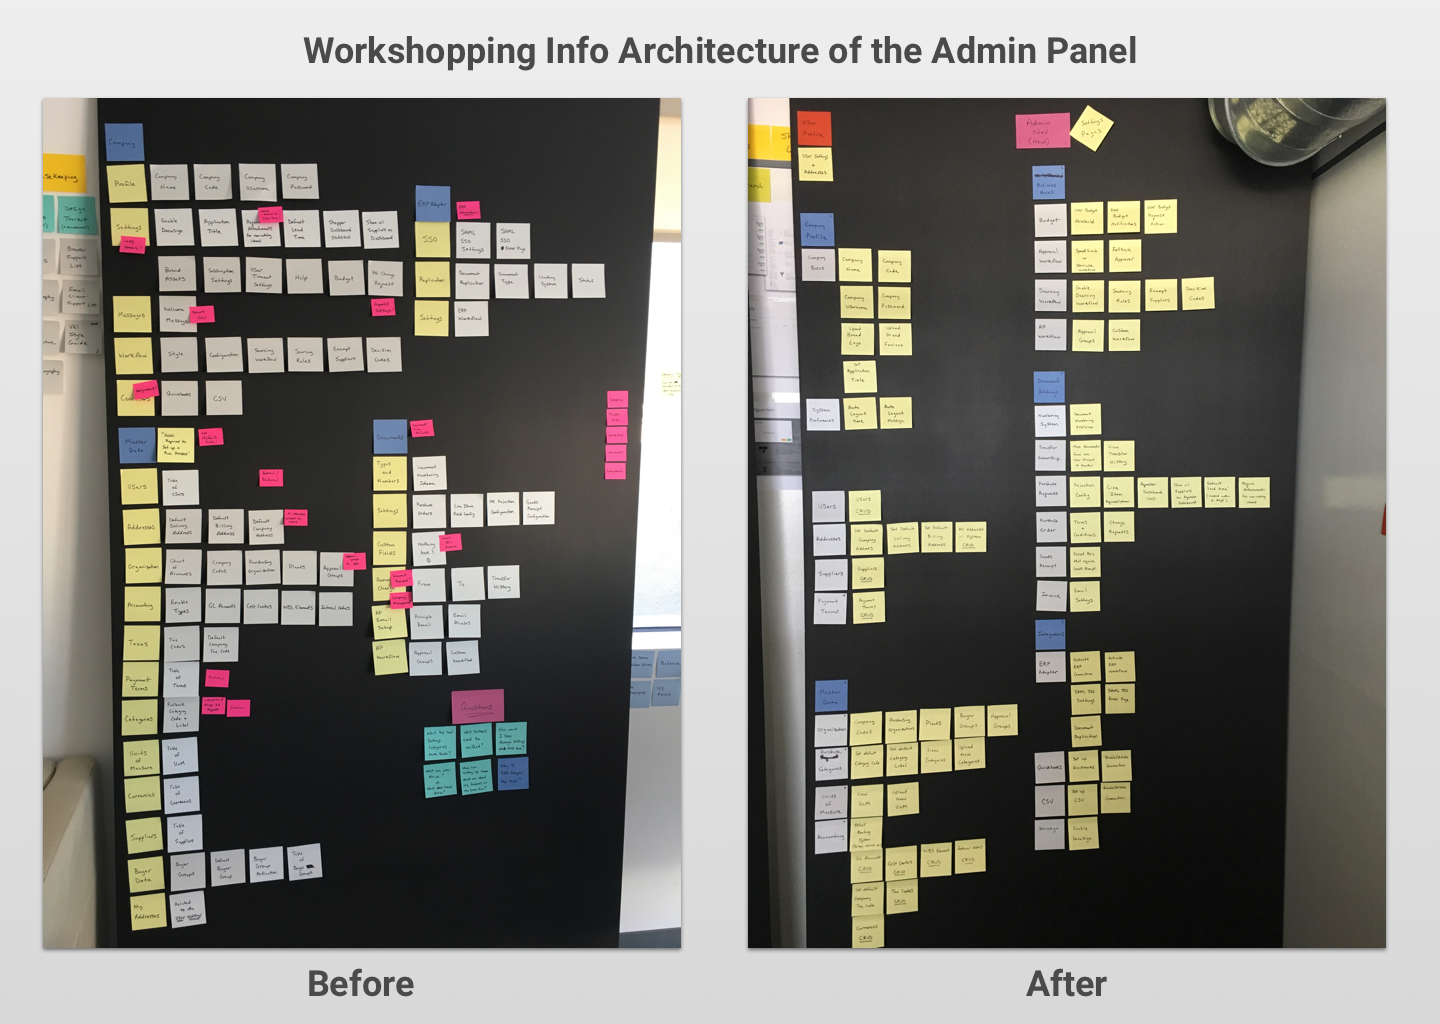
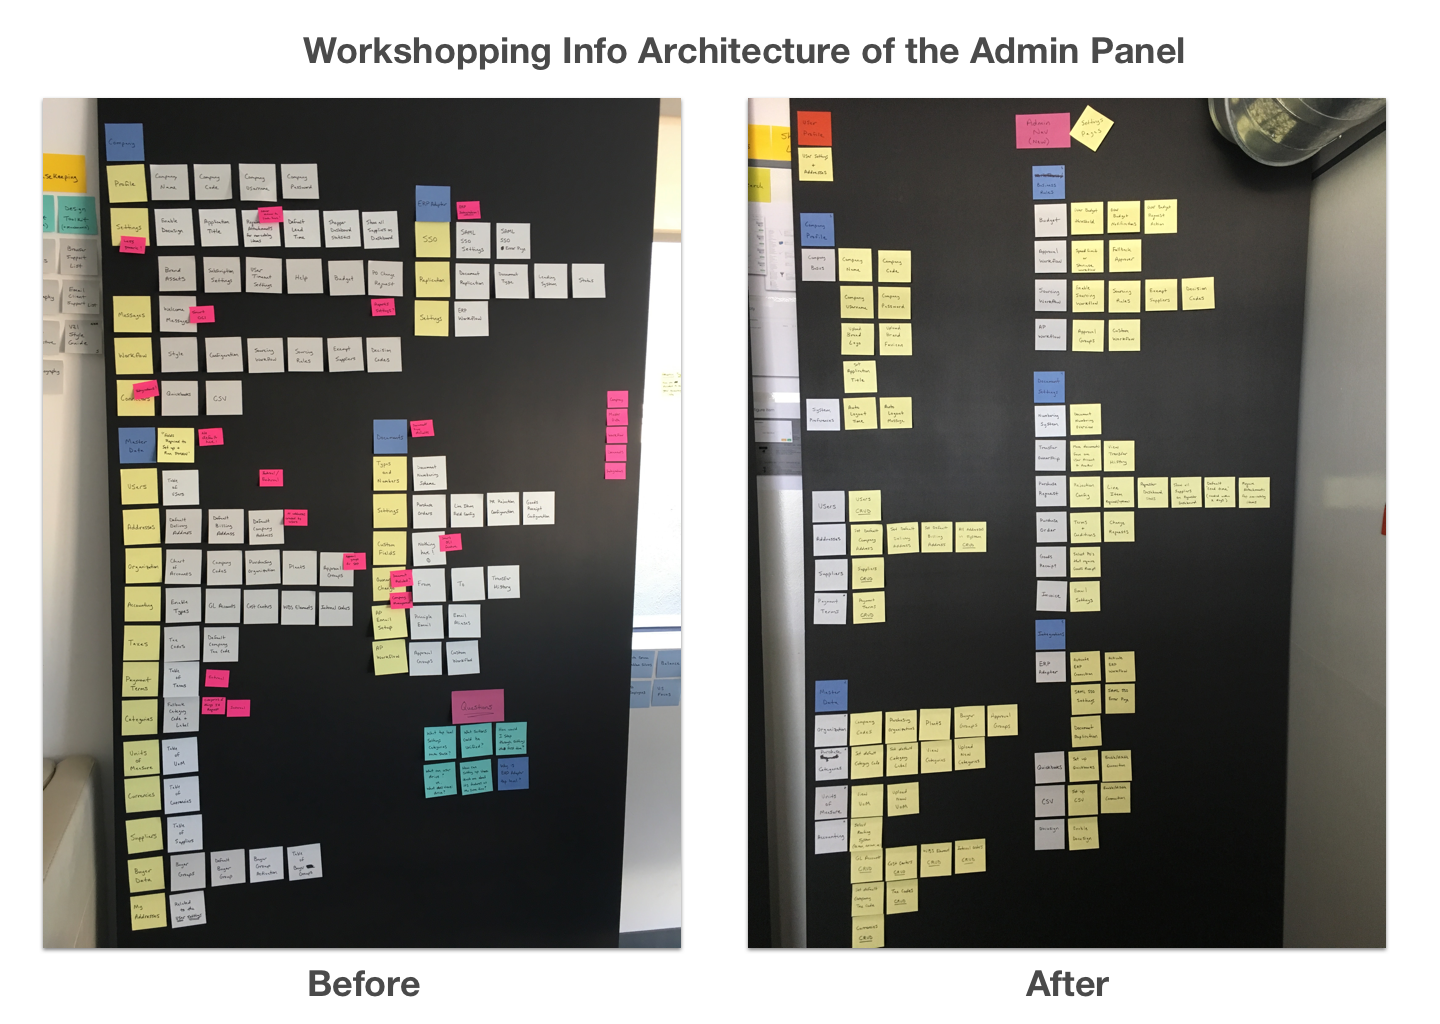
updating the vroozi admin section

Changed region(s): [[0.0, 0.3125, 1.0, 1.0], [0.2188, 0.0312, 0.8438, 0.0625]]

diff --git a/projects/vroozi/admin/index.html b/projects/vroozi/admin/index.html
@@ -13,7 +13,7 @@ title: Vroozi Admin
         </div>
 
         <p class="body-copy has-left-pipe">
-           The Vroozi platform is a series of related but independent modules to help companies control and manage their spend. From creating a requisition for new goods or services, to sending purchase orders, to receiving those orders and processing the invoices to pay for them, Vroozi does it all. But as these modules were developed over time by engineers all over the globe, we never had a consistent design approach which left our Admin panel feeling more like a catch-all than a command center. 
+           The Vroozi platform is a series of related but independent modules to help companies manage their spend. From creating a requisition for new goods or services, to sending purchase orders, to receiving those orders and processing the invoices to pay for them, Vroozi does it all. But as these modules were developed over time by engineers all over the globe, they never had a consistent design approach which left our experience feeling more like a catch-all than a command center. 
         </p>
       </div>
     </div>
@@ -29,12 +29,25 @@ title: Vroozi Admin
     <div class="row">
       <div class="ten columns offset-by-one u-rhythm-btm">
 
+        <div class="twelve columns u-vrhythm-sm">
+          <div><img src="/../../assets/img--admin-ia.png" alt=""></div>
+        </div>
+
+        <div class="twelve columns u-rhythm-btm">
+          <b>Starting at the Beginning</b>
+          <p class="body-copy">
+            To make sure we were providing the most intuitive and natural navigation experience, I had to start with the most basic building blocks of the site: the data itself. I catalogued every piece of data on every page of the existing experience and mapped out the information architecture so I could workshop content groupings and site organization with my product team partners. I kept this 100% analog with post-its on foam core boards to keep everyone focused on the task at hand: correcting IA, content and navigation.
+          </p>
+          <p class="body-copy">
+            Once we agreed on our updated architecture, I dove into prototyping a proof-of-concept portion of the experience with enough pages to start getting buy-in from our executive team.
+          </p>
+        </div>
+
         <div class="js-carousel twelve columns">
           <div><img src="/../../assets/img--spend-dash.png" alt=""></div>
           <div><img src="/../../assets/img--reports.png" alt=""></div>
           <div><img src="/../../assets/img--addresses.png" alt=""></div>
           <div><img src="/../../assets/img--profile.png" alt=""></div>
-          <div><img src="/../../assets/img--admin-ia.png" alt=""></div>
         </div>
 
         <div class="arrow-group twelve columns">
@@ -47,18 +60,23 @@ title: Vroozi Admin
           </div>
         </div>
 
-        <div class="twelve columns">
-          <b>Process & Findings (so far)</b>
+        <div class="twelve columns u-rhythm-btm">
+            <b>"Don't Throw Out the Baby With The Bathwater"</b>
+            <p class="body-copy">
+                As I prototyped my proof-of-concept with Sketch and InVision, I paid special attention to building on fundamental design patterns that our users already understood and relied on. While a completely clean slate is sometimes necessary, we didn't need a total overhaul of the platform. Instead I focused on refining stronger patterns and establishing the true UX and visual consistency we needed to deliver the strongest product. So with the new architecture as a base, I set out to evolve our look and feel in a way that tied the brand and the product together <i>(see the screens above as examples)</i>.
+            </p>
+            <p class="body-copy">
+                 Especially in enterprise software, I believe the product needs to get out of the way and let the user get back to work. In most cases Vroozi users already had a previous system that they had become accustomed to using (regardless of how bad it might have been). So they're not looking to be wowed by my redesign of what already gets them through their workday. They just want something that's simple, that works and that let's them spend more time on their actual job, not on figuring out new software.
+            </p>
+        </div>
+
+        <div class="twelve columns u-rhythm-btm">
+          <b>Want to see the in-progress prototype?</b>
           <p class="body-copy">
-            The administrator panel gives customers full access into all of their purchased Vroozi modules. It had truly become a dumping ground and catch-all for all new features with little regard to how they actually fit into our overall ecosystem.
-          </p>
-          <p class="body-copy">
-            I’m leading the effort to systematize our design from the core out. Starting with the bare bones information architecture of how our modules and their functionality fit together and ending with full-fledged visual design created to lock in a consistent look and feel for the Vroozi brand.
-          </p>
-          <p class="body-copy">
-            Since this project is touching literally every piece of UI within the platform, I started by creating a proof of concept with enough pages covered to get buy-in from our executive team. Now that I’ve gotten that buy-in I’m working with the product team to go through section by section to ensure we leave no stone unturned while bringing the Vroozi admin experience from being a catch-all to being a command center.
+            <i>Just ask me for a link and I’m happy to share.</i>
           </p>
         </div>
+
       </div>
     </div>
 

diff --git a/_site/projects/vroozi/admin/index.html b/_site/projects/vroozi/admin/index.html
@@ -64,7 +64,7 @@
         </div>
 
         <p class="body-copy has-left-pipe">
-           The Vroozi platform is a series of related but independent modules to help companies control and manage their spend. From creating a requisition for new goods or services, to sending purchase orders, to receiving those orders and processing the invoices to pay for them, Vroozi does it all. But as these modules were developed over time by engineers all over the globe, we never had a consistent design approach which left our Admin panel feeling more like a catch-all than a command center. 
+           The Vroozi platform is a series of related but independent modules to help companies manage their spend. From creating a requisition for new goods or services, to sending purchase orders, to receiving those orders and processing the invoices to pay for them, Vroozi does it all. But as these modules were developed over time by engineers all over the globe, they never had a consistent design approach which left our experience feeling more like a catch-all than a command center. 
         </p>
       </div>
     </div>
@@ -80,12 +80,25 @@
     <div class="row">
       <div class="ten columns offset-by-one u-rhythm-btm">
 
+        <div class="twelve columns u-vrhythm-sm">
+          <div><img src="/../../assets/img--admin-ia.png" alt=""></div>
+        </div>
+
+        <div class="twelve columns u-rhythm-btm">
+          <b>Starting at the Beginning</b>
+          <p class="body-copy">
+            To make sure we were providing the most intuitive and natural navigation experience, I had to start with the most basic building blocks of the site: the data itself. I catalogued every piece of data on every page of the existing experience and mapped out the information architecture so I could workshop content groupings and site organization with my product team partners. I kept this 100% analog with post-its on foam core boards to keep everyone focused on the task at hand: correcting IA, content and navigation.
+          </p>
+          <p class="body-copy">
+            Once we agreed on our updated architecture, I dove into prototyping a proof-of-concept portion of the experience with enough pages to start getting buy-in from our executive team.
+          </p>
+        </div>
+
         <div class="js-carousel twelve columns">
           <div><img src="/../../assets/img--spend-dash.png" alt=""></div>
           <div><img src="/../../assets/img--reports.png" alt=""></div>
           <div><img src="/../../assets/img--addresses.png" alt=""></div>
           <div><img src="/../../assets/img--profile.png" alt=""></div>
-          <div><img src="/../../assets/img--admin-ia.png" alt=""></div>
         </div>
 
         <div class="arrow-group twelve columns">
@@ -114,18 +127,23 @@
           </div>
         </div>
 
-        <div class="twelve columns">
-          <b>Process & Findings (so far)</b>
+        <div class="twelve columns u-rhythm-btm">
+            <b>"Don't Throw Out the Baby With The Bathwater"</b>
+            <p class="body-copy">
+                As I prototyped my proof-of-concept with Sketch and InVision, I paid special attention to building on fundamental design patterns that our users already understood and relied on. While a completely clean slate is sometimes necessary,we didn't need a total overhaul of the platform. Instead I focused on refining stronger patterns and establishing the true content and visual consistency we needed to deliver the strongest product. So with the new architecture as a base, I set out to evolve our look and feel in a way that tied together the extrenal Vroozi brand with our actual product <i>(see the screens above as examples)</i>.
+            </p>
+            <p class="body-copy">
+                 Especially in enterprise software, I believe the product needs to get out of the way and let the user get back to work. In most cases Vroozi users already had a previous system that they had become accustomed to using (regardless of how bad it might have been). So they're not looking to be wowed by my redesign of what already gets them through their workday. They just want something that's simple, that works and that let's them spend more time on their actual job, not on figuring out new software.
+            </p>
+        </div>
+
+        <div class="twelve columns u-rhythm-btm">
+          <b>Want to see the in-progress prototype?</b>
           <p class="body-copy">
-            The administrator panel gives customers full access into all of their purchased Vroozi modules. It had truly become a dumping ground and catch-all for all new features with little regard to how they actually fit into our overall ecosystem.
-          </p>
-          <p class="body-copy">
-            I’m leading the effort to systematize our design from the core out. Starting with the bare bones information architecture of how our modules and their functionality fit together and ending with full-fledged visual design created to lock in a consistent look and feel for the Vroozi brand.
-          </p>
-          <p class="body-copy">
-            Since this project is touching literally every piece of UI within the platform, I started by creating a proof of concept with enough pages covered to get buy-in from our executive team. Now that I’ve gotten that buy-in I’m working with the product team to go through section by section to ensure we leave no stone unturned while bringing the Vroozi admin experience from being a catch-all to being a command center.
+            <i>Just ask me for a link and I’m happy to share.</i>
           </p>
         </div>
+
       </div>
     </div>
 

diff --git a/_site/index.html b/_site/index.html
@@ -104,7 +104,7 @@
         </div>
 
         <p class="body-copy has-left-pipe">
-          At Vroozi I'm the only full-time designer, so I'm responsible for and do pretty much everything design-wise. I really do a bit of everything in this role: I work with my product team partners to gather requirements, I might lead us in experience design and research activities, I might create an InVision prototype, I might do visual design exploration, I might create a content matrix for a new feature, or I might just hop into the code base to fix a bug. Ultimately, I do what's needed to communicate the design intent.
+          At Vroozi I'm the only full-time designer, so I do all that that entails. I really do a bit of everything in this role: I work with my product team partners to gather requirements, I might lead us in experience design and research activities, I might create an InVision prototype, I might do visual design exploration, I might create a content matrix for a new feature, or I might just hop into the code base to fix a bug. Ultimately, I do what's needed to communicate the design intent to build a great product.
         </p>
       </div>
     </div>
@@ -145,7 +145,7 @@
 
       <div class="project__body six columns">
         <p class="body-copy has-left-pipe">
-          Vroozi is a unified suite of financial products but our home base admin panel never felt like it. I'm working on taking it from being a feature-rich catch-all to a true command center.
+          Vroozi is a unified suite of financial products but our main admin panel never felt unified. I'm working on taking it from being a feature-rich catch-all to a true command center.
         </p>
       </div>
     </div>

diff --git a/_includes/vroozi.html b/_includes/vroozi.html
@@ -10,7 +10,7 @@
         </div>
 
         <p class="body-copy has-left-pipe">
-          At Vroozi I'm the only full-time designer, so I'm responsible for and do pretty much everything design-wise. I really do a bit of everything in this role: I work with my product team partners to gather requirements, I might lead us in experience design and research activities, I might create an InVision prototype, I might do visual design exploration, I might create a content matrix for a new feature, or I might just hop into the code base to fix a bug. Ultimately, I do what's needed to communicate the design intent.
+          At Vroozi I'm the only full-time designer, so I do all that that entails. I really do a bit of everything in this role: I work with my product team partners to gather requirements, I might lead us in experience design and research activities, I might create an InVision prototype, I might do visual design exploration, I might create a content matrix for a new feature, or I might just hop into the code base to fix a bug. Ultimately, I do what's needed to communicate the design intent to build a great product.
         </p>
       </div>
     </div>
@@ -43,7 +43,7 @@
 
       <div class="project__body six columns">
         <p class="body-copy has-left-pipe">
-          Vroozi is a unified suite of financial products but our home base admin panel never felt like it. I'm working on taking it from being a feature-rich catch-all to a true command center.
+          Vroozi is a unified suite of financial products but our main admin panel never felt unified. I'm working on taking it from being a feature-rich catch-all to a true command center.
         </p>
       </div>
     </div>
